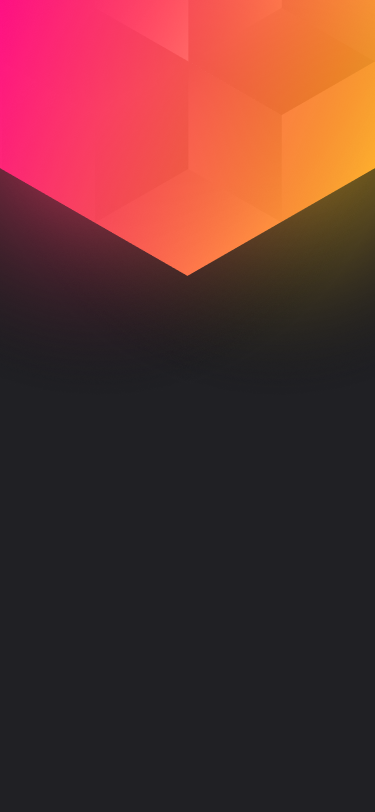
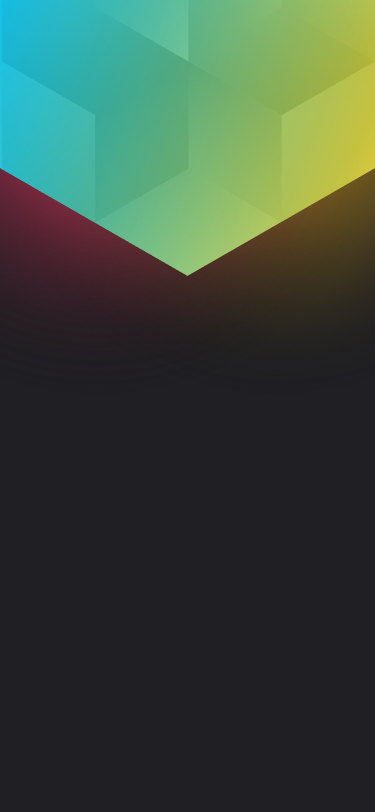
fix: Links fixed/main color edited

Changed region(s): [[0.0, 0.0, 1.0, 0.3387]]

diff --git a/index.html b/index.html
@@ -17,9 +17,9 @@
     <main>
       <div class="container">
         <div class="avatar">
-          <span>
+          <!-- <span>
             <img src="images/build.svg" alt="logo" />
-          </span>
+          </span> -->
           <img
             src="https://lorempixel.com/185/185/people"
             id="userImg"
@@ -38,9 +38,12 @@
         </p>
 
         <ul id="socialLinks">
-          <li class="youtube">
-            <a href="https://youtube.com/raul08" target="_blank">
-              <img src="images/YouTube.svg" alt="Link para youtube" />
+          <li class="linkedin">
+            <a
+              href="https://www.linkedin.com/in/raul-castro-a30826137/"
+              target="_blank"
+            >
+              <img src="images/Linkedin.svg" alt="Link para youtube" />
             </a>
           </li>
           <li class="facebook">

diff --git a/main.js b/main.js
@@ -3,8 +3,8 @@ function showMeShomthing() {
 }
 const LinksSocialMedia = {
   github: "raulcastro08",
-  youtube: "UCTECbebwtaXbM9SbOupJeEQ",
-  facebook: "raul08",
+  linkedin: "in/raul-castro-a30826137",
+  facebook: "#",
   instagram: "raulcs08",
   twitter: "Raull08",
 };
